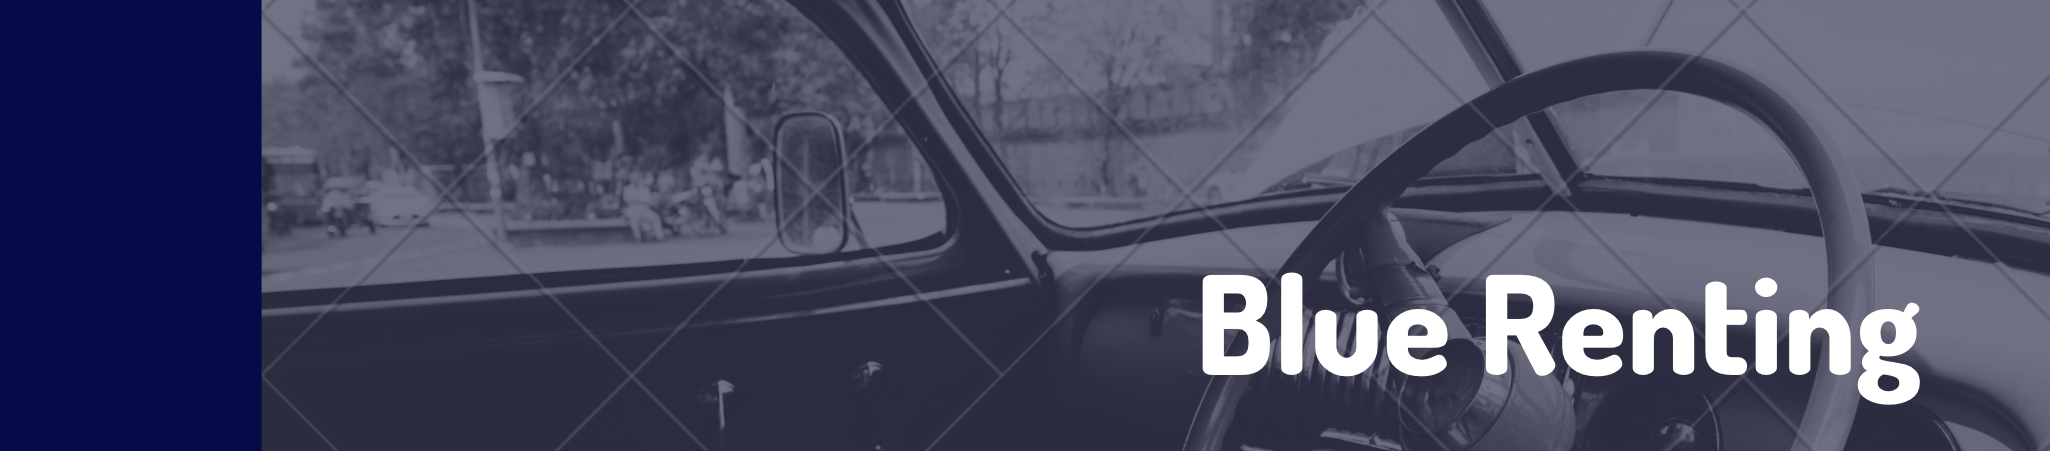
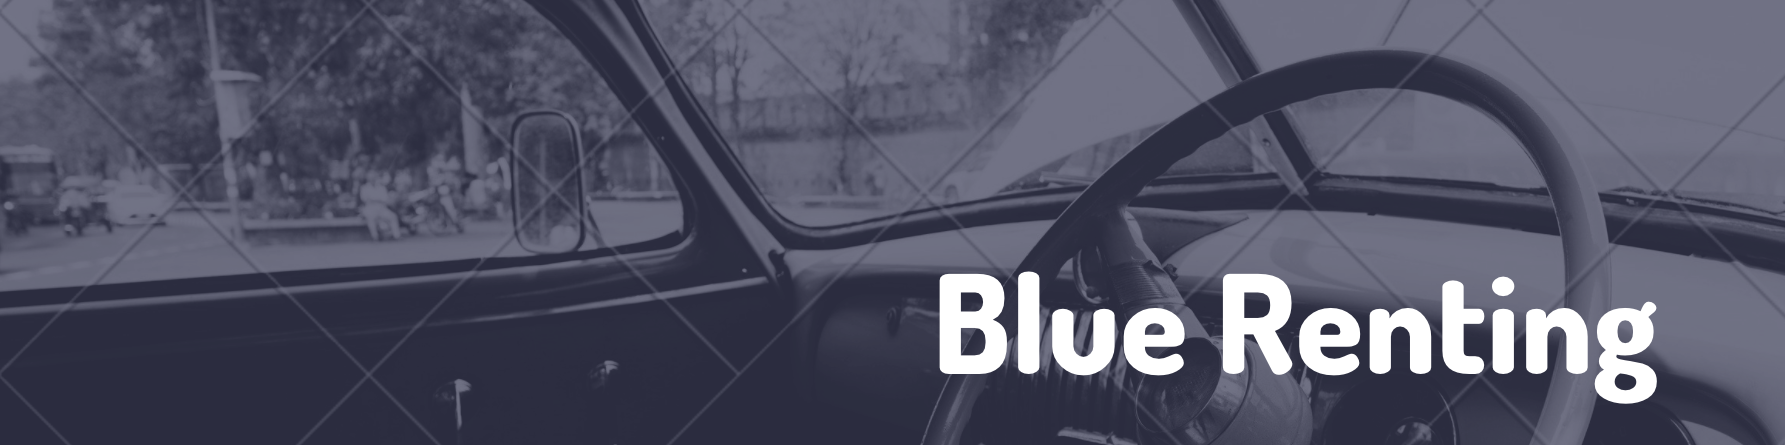
Todo front unido

diff --git a/src/bluerenting-cesta/bluerenting-cesta.js b/src/bluerenting-cesta/bluerenting-cesta.js
@@ -19,15 +19,15 @@ class BluerentingCesta extends LitElement {
         return html`
         <link href="https://cdn.jsdelivr.net/npm/bootstrap@5.0.0-beta2/dist/css/bootstrap.min.css" rel="stylesheet" integrity="sha384-BmbxuPwQa2lc/FVzBcNJ7UAyJxM6wuqIj61tLrc4wSX0szH/Ev+nYRRuWlolflfl" crossorigin="anonymous">
             <div class="card h-10 w-65 card text-center">
-                <img src="${this.imageUrl}" height="100" width="150" ></img>    
+                <img src="${this.imageUrl}" class="card-img-top" height="100" width="150" ></img>    
                 <div class="card-body">
                     <ul class="list-group list-group-flush">
-                        <li class="list-group-item">Coche ${this.name} </li>
+                        <li class="list-group-item">${this.name} </li>
                         <li class="list-group-item">${this.price} euros/mes</li>
                     </ul>
                 </div>            
                 <div class="card-footer">
-                    <button @click="${this.deleteCoche}" class="btn btn-danger me-md-2 col-2 "><strong>X</strong></button>
+                    <button @click="${this.deleteCoche}" class="btn btn-danger"><strong>Delete</strong></button>
                 </div>
             </div>
 

diff --git a/src/bluerenting-admin-coches/bluerenting-admin-coches.js b/src/bluerenting-admin-coches/bluerenting-admin-coches.js
@@ -24,14 +24,16 @@ class BluerentingAdminCoches extends LitElement {
     render() {
         return html`
         <link href="https://cdn.jsdelivr.net/npm/bootstrap@5.0.0-beta2/dist/css/bootstrap.min.css" rel="stylesheet" integrity="sha384-BmbxuPwQa2lc/FVzBcNJ7UAyJxM6wuqIj61tLrc4wSX0szH/Ev+nYRRuWlolflfl" crossorigin="anonymous">
-        <h1>Admin Coches</h1>
+        <div class="d-grid gap-2">
+            <button class="btn btn-danger btn-lg" type="button" disabled>Mantenimiento Vehículos</button>
+        </div>
         <div>
             <form id="formEdicion" class="d-none">
             <div class="row">
                 <div class="col-4">
                     <input type="text" class="form-control" id="nameForm" placeholder="Name">
                     <input type="text" class="form-control" id="modelForm" placeholder="Model">
-                    <input type="text" class="form-control" id="priceForm" placeholder="Price (€)">
+                    <input type="number" class="form-control" id="priceForm" placeholder="Price (€)">
                     <input type="text" class="form-control" id="imageUrlForm" placeholder="url imagen">
                 </div>
                 <div class="col-4 d-grid gap-2 md-block">

diff --git a/src/bluerenting-ficha/bluerenting-ficha.js b/src/bluerenting-ficha/bluerenting-ficha.js
@@ -19,8 +19,8 @@ class BluerentingFicha extends LitElement {
     render() {
         return html`
         <link href="https://cdn.jsdelivr.net/npm/bootstrap@5.0.0-beta2/dist/css/bootstrap.min.css" rel="stylesheet" integrity="sha384-BmbxuPwQa2lc/FVzBcNJ7UAyJxM6wuqIj61tLrc4wSX0szH/Ev+nYRRuWlolflfl" crossorigin="anonymous">
-            <div class="card h-100">
-                <img src="${this.imageUrl}" height="150" width="200" ></img>    
+            <div class="card h-100 card text-center">
+                <img src="${this.imageUrl}" class="card-img-top" height="150" width="200" ></img>    
                 <div class="card-body">
                     <h4 class="card-title">${this.name}</h4>
                     <p class="card-text">Identificador ${this.id}</p>
@@ -30,7 +30,7 @@ class BluerentingFicha extends LitElement {
                     </ul>
                 </div>
                 <div class="card-footer">
-                    <button @click="${this.addCoche}" class="btn btn-primary "><strong>Seleccionar</strong></button>
+                    <button @click="${this.addCoche}" class="btn btn-primary"><strong>Seleccionar</strong></button>
                 </div>
             </div>
 

diff --git a/src/bluerenting-footer/bluerenting-footer.js b/src/bluerenting-footer/bluerenting-footer.js
@@ -1,4 +1,4 @@
-import { LitElement, html } from 'lit-element';
+import { LitElement, html, css } from 'lit-element';
 import { openWcLogo } from '../open-wc-logo.js';
 
 class BluerentingFooter extends LitElement {
@@ -13,10 +13,28 @@ class BluerentingFooter extends LitElement {
 
     }
 
+    static get styles() {
+        return css`
+            div { 
+                margin-top: 10px !important;
+                height: 100px !important;
+            }
+            .divfooter {
+                background-color: #0f1741;
+            }
+        `;
+    }
+
     render() {
         return html`
         <link href="https://cdn.jsdelivr.net/npm/bootstrap@5.0.0-beta2/dist/css/bootstrap.min.css" rel="stylesheet" integrity="sha384-BmbxuPwQa2lc/FVzBcNJ7UAyJxM6wuqIj61tLrc4wSX0szH/Ev+nYRRuWlolflfl" crossorigin="anonymous">
-        <h4>@BlueRenting 2021</h4>
+        <div class="row divfooter">
+            <div class="row align-items-end">
+                <div class="col align-self-right">
+                    <button class="btn btn-light disabled btn-lg">@BlueRenting 2021</button>
+                </div>
+            </div>
+        </div>
         `;
     }       
 

diff --git a/src/bluerenting-menu/bluerenting-menu.js b/src/bluerenting-menu/bluerenting-menu.js
@@ -15,7 +15,7 @@ class BluerentingMenu extends LitElement {
     static get styles() {
         return css`
             .navbar-custom { 
-                background-color: #060A4B; 
+                background-color: #0f1741; 
             }
         `;
       }
@@ -29,11 +29,11 @@ class BluerentingMenu extends LitElement {
             <div class="collapse navbar-collapse" id="navbar-bluerenting">
                 <ul class="navbar-nav mr-auto">
                    <li class="nav-item">
-                        <button class="btn btn-light" @click="${this.hideAdminCoches}">Comprar</a>
+                        <button class="btn btn-light" @click="${this.hideAdminCoches}">Comprar</button>
                     </li>
                     <li> | </li>
                     <li class="nav-item">
-                        <button class="btn btn-light" @click="${this.showAdminCoches}">Admin</a>
+                        <button class="btn btn-light" @click="${this.showAdminCoches}">Admin</button>
                     </li>
                 </ul>
             </div>

diff --git a/src/bluerenting-sidebar/bluerenting-sidebar.js b/src/bluerenting-sidebar/bluerenting-sidebar.js
@@ -24,9 +24,10 @@ class BluerentingSidebar extends LitElement {
     render() {
         return html`
         <link href="https://cdn.jsdelivr.net/npm/bootstrap@5.0.0-beta2/dist/css/bootstrap.min.css" rel="stylesheet" integrity="sha384-BmbxuPwQa2lc/FVzBcNJ7UAyJxM6wuqIj61tLrc4wSX0szH/Ev+nYRRuWlolflfl" crossorigin="anonymous">
-        <h2>Cesta</h2>
-        <div class="row" id="cochesList">
-                <div class="row row-cols-1 row-cols-sm-1"> 
+        <div class="row">
+            <button class="btn btn-outline-danger btn-lg" type="button" disabled>Cesta</button>
+        </div>
+        <div class="row" style="margin: 0 auto;" id="cochesList">
                     ${this.cesta.map(
                         coche => html`
                         <bluerenting-cesta
@@ -38,8 +39,7 @@ class BluerentingSidebar extends LitElement {
                         </bluerenting-cesta>
                         `
                     )}
-                </div>    
-            </div>
+        </div>
         `;
     }       
 

diff --git a/src/bluerenting-header/bluerenting-header.js b/src/bluerenting-header/bluerenting-header.js
@@ -19,7 +19,7 @@ class BluerentingHeader extends LitElement {
     static get styles() {
         return css`
             .divheader {
-                background-color: #060A4B;
+                background-color: #0f1741;
             }
         `;
     }
@@ -29,8 +29,8 @@ class BluerentingHeader extends LitElement {
         <link href="https://cdn.jsdelivr.net/npm/bootstrap@5.0.0-beta2/dist/css/bootstrap.min.css" rel="stylesheet" integrity="sha384-BmbxuPwQa2lc/FVzBcNJ7UAyJxM6wuqIj61tLrc4wSX0szH/Ev+nYRRuWlolflfl" crossorigin="anonymous">
 
         <div class="row" class="divheader">
-            <div class="col-4"><img src="${this.imgsrc}" height="150"></img></div>
-            <div class="col-8"><img src="${this.imgbackground}" height="150" with="1000"></img></div>
+            <div class="col-2 divheader"><img src="${this.imgsrc}" height="150"></img></div>
+            <div class="col-10 divheader"><img src="${this.imgbackground}" height="150" with="1000"></img></div>
         </div>
         `;
     }       

diff --git a/src/bluerenting-main/bluerenting-main.js b/src/bluerenting-main/bluerenting-main.js
@@ -29,8 +29,10 @@ class BluerentingMain extends LitElement {
     render() {
         return html`
             <link href="https://cdn.jsdelivr.net/npm/bootstrap@5.0.0-beta2/dist/css/bootstrap.min.css" rel="stylesheet" integrity="sha384-BmbxuPwQa2lc/FVzBcNJ7UAyJxM6wuqIj61tLrc4wSX0szH/Ev+nYRRuWlolflfl" crossorigin="anonymous">
-            <h1>Listado de vehículos disponibles</h1>
             <div class="row" id="cochesList">
+                <div class="d-grid gap-2">
+                    <button class="btn btn-outline-danger btn-lg" type="button" disabled>Listado de vehículos disponibles</button>
+                </div>
                 <div class="row row-cols-1 row-cols-sm-4"> 
                     ${this.coches.map(
                         coche => html`
